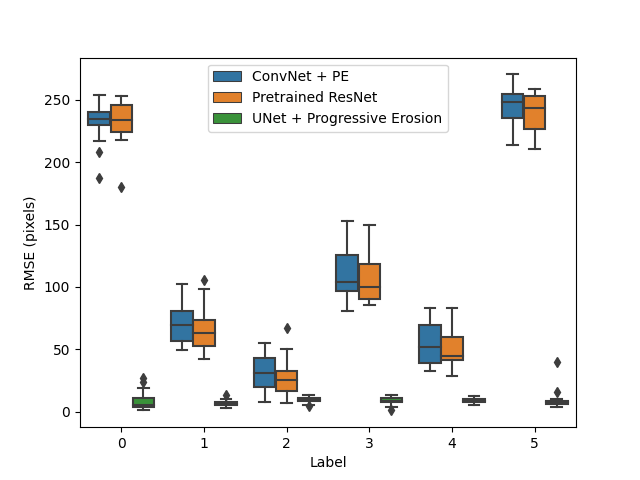
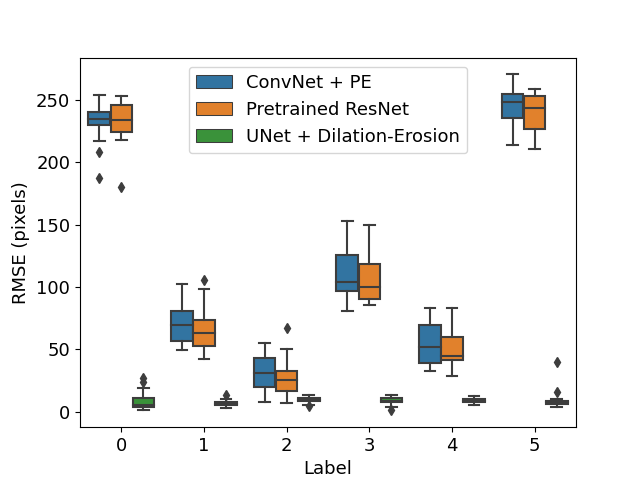
[Feat] Box Plot #23

diff --git a/plot_data/box_plot/box_plot.py b/plot_data/box_plot/box_plot.py
@@ -49,9 +49,11 @@ def convert_list_to_dataframe(total_list, total_name):
 def box_plot(df, name):
     sns.boxplot(x=df['label'], y=df['value'], hue=df['experiment'], data=df)
     # sns.scatterplot(x=df['label'], y=df['value'], hue=df['experiment'], data=df)
-    plt.xlabel('Label')
-    plt.ylabel('RMSE (pixels)')
-    plt.legend(loc='upper center')
+    plt.xticks(fontsize=13)
+    plt.yticks(fontsize=13)
+    plt.xlabel('Label', fontsize=13)
+    plt.ylabel('RMSE (pixels)', fontsize=13)
+    plt.legend(loc='upper center', fontsize=13)
     plt.savefig(f'{name}.png')
     plt.close()
 
@@ -77,7 +79,7 @@ if __name__ == '__main__':
 
     parser.add_argument('--experiment1', type=str, default="ConvNet + PE")
     parser.add_argument('--experiment2', type=str, default="Pretrained ResNet")
-    parser.add_argument('--experiment3', type=str, default="UNet + Progressive Erosion")
+    parser.add_argument('--experiment3', type=str, default="UNet + Dilation-Erosion")
     parser.add_argument('--plot_name', type=str, default="2023_MIDL_Box_Plot")
     args = parser.parse_args()
 
